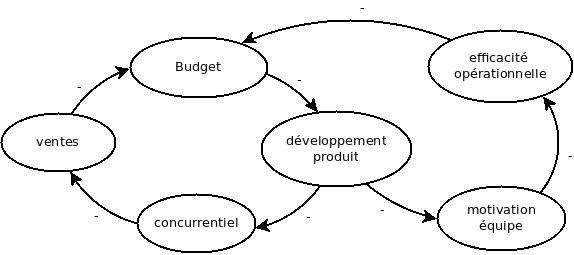
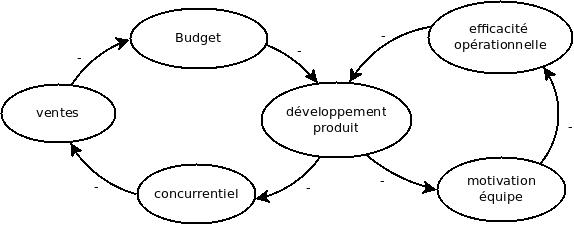
draft: le A3 comme outil de communication manageriale: maj retours PB

diff --git a/_drafts/le_a3_comme_outil_de_communication.md b/_drafts/le_a3_comme_outil_de_communication.md
@@ -49,7 +49,7 @@ Je me fais aider de l'équipe, en binômant régulièrement avec chaque personne
 
 Je travaille deux mois sur ce A3. Avec mon coach, nous choisissons de le faire de manière manuscrite et utilisons la technique des collages successifs pour faire évoluer les différentes parties du document.
 
-![séance de travail](/images/a3.png){:height="480px" width="600px"}
+[![A3](/images/a3.png){:height="480px" width="600px"}](/images/a3.png)
 
 
 # Remonter le problème
@@ -74,15 +74,21 @@ Bonne idée ! Cela nous permettra de compléter notre A3 avec des éléments nou
 Nous prenons donc rendez-vous avec Sylvia et Jacques puisque nous tenons régulièrement informés nos deux managers directs. Nous constatons lors de cet entretien préparatoire :
 
 * qu'il faut attendre de présenter la démarche avant de donner le document car les personnes se plongent dans le A3 et n'écoutent plus
-* Sylvia se sent remise en question. Elle explique qu'elle est au courant de cette situation et de ces chiffres. Certaines contre-mesures sont déjà prises : changement de nom (*NDLR : à ce jour il n'a toujours pas changé*), et "*coselling*" avec des *AdWords*. En somme les commerciaux vont vendre le *chat* avec une autre offre de *SEO* (*Search Engine Optimization*) chez google. Cela signifie que nous allons reproduire les mêmes effets délétères que ceux constatés auparavant : vendre le chat à des personnes n'en ayant pas besoin, ou approchées pour un autre produit. Cela produit les résultats qu'on connaît : augmentation du nombre de clients, mais stagnation du nombre de chats, donc du CA (les clients utilisent l'offre de SEO et pas le chat)
 * notre connaissance du problème nous permet de comprendre son point de vue, et de parler le ***même langage***
 * nous avons été trop longs lors de la présentation
+* Sylvia se sent remise en question. Elle explique qu'elle est au courant de cette situation et de ces chiffres. Certaines contre-mesures sont déjà prises : changement de nom (*NDLR : à ce jour il n'a toujours pas changé*), et "*coselling*" avec des *AdWords*. En somme les commerciaux vont vendre le *chat* avec une autre offre de *SEO* (*Search Engine Optimization*) chez google. Cela signifie que nous allons reproduire les mêmes effets délétères que ceux constatés auparavant : vendre le chat à des personnes n'en ayant pas besoin, ou approchées pour un autre produit. Cela produit les résultats qu'on connaît : augmentation du nombre de clients, mais stagnation du nombre de chats, donc du CA (les clients utilisent l'offre de SEO et pas le chat)
+
+![nombre_clients](/images/a3_diagramme.png)
 
 # L'entretien
 
 ## Une prise de contact par mail
 
-A présent, il faut arriver à obtenir un entretien avec ce manager très occupé. Je fais un brouillon, le fais relire par chaque personne de l'équipe, et j'intègre les remarques. L'objectif que nous nous fixons est d'être succinct et susciter la curiosité. Nous envoyons le message suivant sans le document :
+A présent, il faut arriver à obtenir un entretien avec ce manager très occupé. Pour certains, c'est mission impossible :
+
+> "n-2 du PDG c'est une entité quasi mythologique, et en tout état de cause inaccessible."
+
+Je fais un brouillon, le fais relire par chaque personne de l'équipe, et j'intègre les remarques. L'objectif que nous nous fixons est d'être succinct et susciter la curiosité. Nous envoyons le message suivant sans le document :
 
 > Bonjour,
 >
